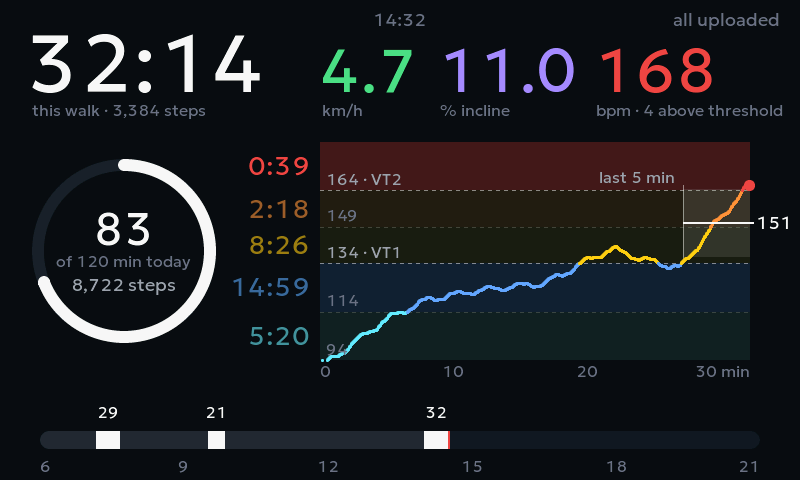
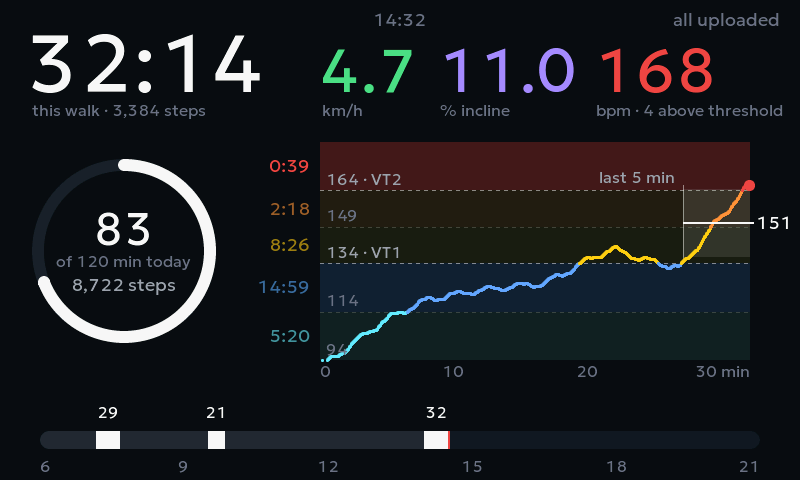
docs: re-render README screenshots with the quieter zone times
The zone times beside the pulse chart are smaller and show only for
zone 1 and the zones the walk has reached; the README says so and its
four dashboard screenshots show it.

diff --git a/README.md b/README.md
@@ -13,7 +13,7 @@ A big, glanceable second screen for your treadmill: walking time, a daily goal r
 - **This walk, in big digits.** Walking time runs only while the belt moves, with the steps under it ([estimated from the speed](docs/how-it-works.md#steps)). Speed and incline next to it.
 - **Daily goal ring.** Minutes walked today out of your goal, and today's steps. Past the goal, a second, brighter lap. Tap the ring to count in hours and minutes ("1h 23m") instead.
 - **Heart rate zones.** The pulse is colored by zone, with how far you are from the next threshold.
-- **Pulse chart of the walk** over the five zones as bands, the zone you are in now brighter, with your two thresholds named and the other zone borders dashed. The chart spans zones 1 to 5 only: a pulse under or over them runs as dots along the edge. Beside each band, this walk's time in that zone. Plus where your pulse sat over the last 5 minutes.
+- **Pulse chart of the walk** over the five zones as bands, the zone you are in now brighter, with your two thresholds named and the other zone borders dashed. The chart spans zones 1 to 5 only: a pulse under or over them runs as dots along the edge. Beside the bands, this walk's time in zone 1 and in each zone above it that the walk has reached. Plus where your pulse sat over the last 5 minutes.
 - **Beeps** when the pulse crosses a threshold, and when the treadmill link drops mid-walk.
 - **Day strip:** when you walked today, with each walk's minutes over it.
 - **The last two weeks:** swipe sideways for a bar per day, split by pulse zone (striped where you walked without the strap), with weeks set apart, your average day in minutes and steps, the days on goal and in a row, and the average day's minutes in zones 2 to 5. The history stays on the board, so this works without the cloud; the dashboard comes back when the belt starts.
